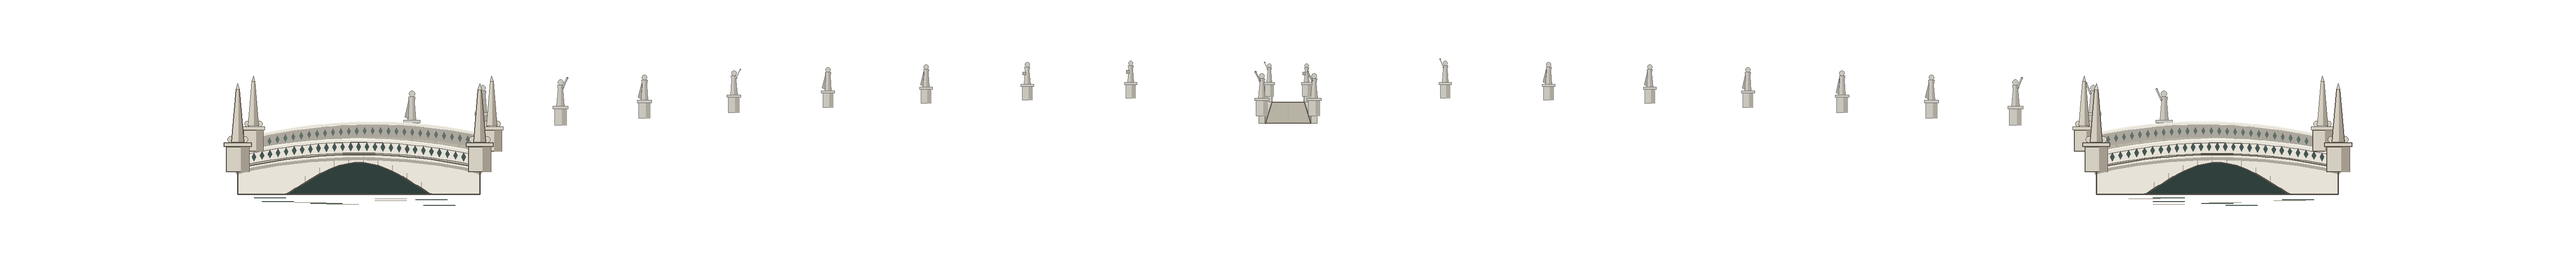
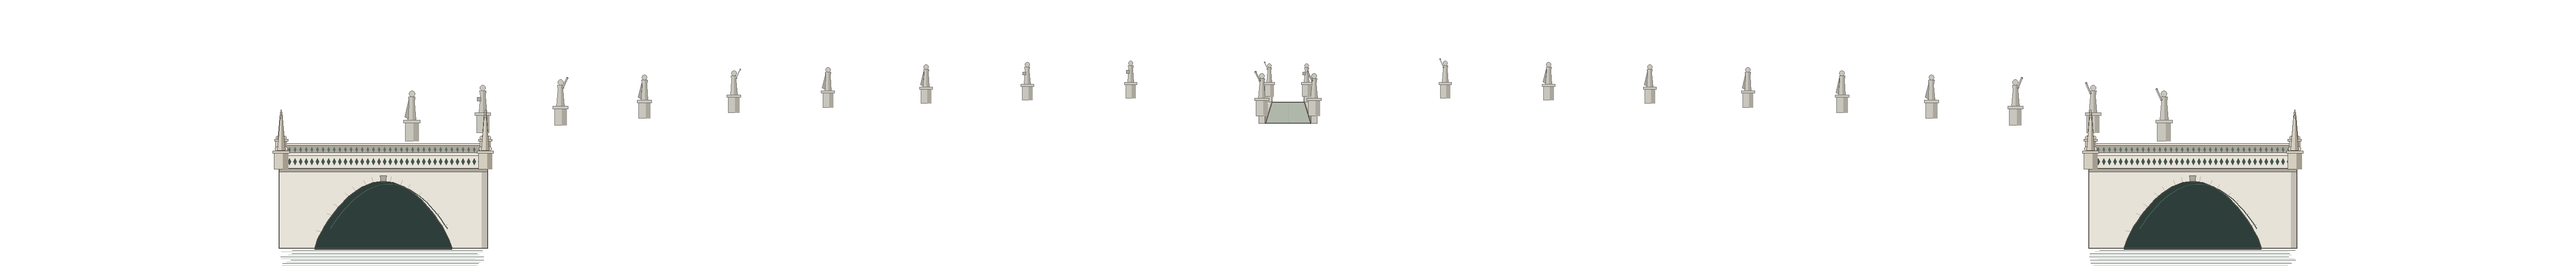
Padova: i ponti est e ovest continuano la striscia dove si gioca, dritti e in piano (#378)
Claude-Session: https://claude.ai/code/session_01Bf1d2rFJnp9n4pFf7DSqn4

Changed region(s): [[0.779, 0.36, 0.9348, 0.96], [0.0623, 0.36, 0.2181, 0.96]]

diff --git a/tools/arene/padova.py b/tools/arene/padova.py
@@ -2128,6 +2128,66 @@ def _side_bridge(t, p_in, p_out, rng, k=1.0):
         _obelisk(t, nx, ny + 2 * k, 1.0 * k, ink)
 
 
+def _flat_bridge(t, x_in, x_out, rng):
+    """Un ponte del Prato che continua il piano dove si gioca (#378, chiesto da Riccardo): il piano del ponte è la
+    stessa striscia di lastricato della piazza, vista un po' dall'alto come lei (dal bordo davanti a y 520 a quello
+    dietro a y 506), dritto e in piano. Davanti la faccia di pietra bianca con l'arco sull'acqua, i conci e la chiave,
+    le spalle che scendono nell'acqua; sui due bordi il parapetto traforato, e ai quattro capi gli obelischi (quelli
+    dietro più piccoli). Da x_in (la punta dell'isola) a x_out (la sponda di fuori)."""
+    stone, stone_sh, stone_l, ink = (230, 226, 216, 255), (176, 170, 158, 255), (246, 244, 236, 255), (84, 78, 72, 255)
+    a, b = min(x_in, x_out), max(x_in, x_out)
+    front, back, water = 520, 506, 606
+    # il parapetto dietro, sul bordo lontano: un po' più basso perché più lontano, in ombra
+    t.rect(a, back - 11, b, back, fill=stone_sh)
+    for x in range(int(a) + 4, int(b) - 2, 6):
+        t.poly([(x, back - 8.4), (x + 1.4, back - 5.6), (x, back - 2.8), (x - 1.4, back - 5.6)], fill=(96, 112, 106, 255))
+    t.rect(a, back - 12.5, b, back - 10.5, fill=stone, ink=True, width=0.5, ink_col=ink)
+    # il piano del ponte: lastre di pietra come la piazza
+    t.rect(a, back, b, front, fill=(196, 190, 176, 255))
+    for k in range(1, 3):
+        y = back + (front - back) * k / 3
+        t.line([(a, y), (b, y)], fill=(170, 164, 150, 255), width=0.5)
+    for x in range(int(a) + 12, int(b), 24):
+        t.line([(x, back), (x + 1, front)], fill=(170, 164, 150, 255), width=0.5)
+    t.glaze([(a, back), (b, back), (b, back + 4), (a, back + 4)], (40, 36, 32, 40))  # l'ombra del parapetto dietro
+    # la faccia davanti, dal bordo giù fino all'acqua, con l'arco in mezzo
+    t.rect(a, front, b, water, fill=stone)
+    span, mid = (b - a) * 0.66, (a + b) / 2
+    top_arch = front + 14
+    arch = [(mid - span / 2 + span * i / 40, water - (water - top_arch) * math.sin(math.pi * i / 40) ** 0.75) for i in range(41)]
+    t.poly([(mid - span / 2, water + 1)] + arch + [(mid + span / 2, water + 1)], fill=(46, 62, 58, 255))
+    # dentro l'arco si vede la volta che va in profondità
+    inner = [(x + 6, y + 3) for x, y in arch[3:-3]]
+    t.line(inner, fill=(70, 86, 80, 255), width=1.2)
+    for i in range(1, 16):  # i conci attorno all'arco
+        u = i / 16
+        px, py = arch[int(u * 40)]
+        nx, ny = -math.cos(math.pi * u), -math.sin(math.pi * u) * 0.9
+        t.line([(px, py), (px + nx * 6, py + ny * 6)], fill=stone_sh, width=0.7)
+    kx, ky = arch[20]
+    t.poly([(kx - 3.5, ky - 6), (kx + 3.5, ky - 6), (kx + 2.6, ky + 1), (kx - 2.6, ky + 1)], fill=stone_sh, ink=True, width=0.6, ink_col=ink)  # la chiave
+    t.line(arch, fill=ink, width=0.8)
+    t.rect(a, front, b, front + 4, fill=stone_sh)  # la cornice sotto il piano
+    t.line([(a, front + 4), (b, front + 4)], fill=ink, width=0.5)
+    t.glaze([(b - 6, front + 4), (b, front + 4), (b, water), (b - 6, water)], (40, 36, 32, 50))
+    t.rect(a, front, b, water, ink=True, width=0.8, ink_col=ink)
+    for i in range(10):  # il riflesso nell'acqua, spezzato
+        y = water + 2 + i * 1.8
+        t.line([(a + rng.uniform(0, 14), y), (b - rng.uniform(0, 14), y)], fill=(166, 186, 178, 255) if i % 2 else (60, 78, 72, 255), width=0.7)
+    # il parapetto davanti: la lastra bianca traforata sul bordo vicino
+    t.rect(a, front - 14, b, front, fill=stone)
+    for x in range(int(a) + 4, int(b) - 2, 6):
+        t.poly([(x, front - 10.5), (x + 1.7, front - 7), (x, front - 3.5), (x - 1.7, front - 7)], fill=(70, 86, 82, 255))
+    t.rect(a, front - 14, b, front, ink=True, width=0.5, ink_col=ink)
+    t.rect(a - 1, front - 16.5, b + 1, front - 13.5, fill=stone, ink=True, width=0.6, ink_col=ink)
+    t.line([(a - 1, front - 16), (b + 1, front - 16)], fill=stone_l, width=0.8)
+    # gli obelischi ai quattro capi: quelli dietro più piccoli e più in alto
+    for x in (a + 2, b - 2):
+        _obelisk(t, x, back - 1, 0.85, ink)
+    for x in (a + 2, b - 2):
+        _obelisk(t, x, front + 1, 1.05, ink)
+
+
 def bridges_and_statues(name):
     """Le statue sulla sponda di là del canale e i ponticelli (#378, chiesto da Riccardo): la fila di statue del Prato
     lungo tutto l'ovale, più piccole lontano; il ponticello dietro la fontana visto di fronte, e i due alle punte
@@ -2164,16 +2224,10 @@ def bridges_and_statues(name):
             t.rect(px - 6 * sc, py - 14 * sc, px + 6 * sc, py, fill=stone, ink=True, width=0.5, ink_col=ink)
             ring_statue(t, px, py - 14 * sc, sc, rng, hz)
     t.poly(deck, ink=True, width=0.8, ink_col=ink)
-    # i ponti est e ovest (#378, chiesto da Riccardo): vicini alla telecamera e allineati con la striscia dove si
-    # combatte, dalla punta della piazza (y 520) dritti verso fuori fino al vialetto della sponda; più grandi perché vicini
-    # (dallo schizzo di Riccardo): partono dall'angolo della piazza e scendono verso la sponda di fuori, che lì gira
-    # verso di noi, con la gobba alta
+    # i ponti est e ovest sullo stesso piano dove si gioca (#378, chiesto da Riccardo): ognuno continua la striscia
+    # della piazza dalla punta dell'isola fino alla sponda di fuori
     for side in (-1, 1):
-        # sulla stessa linea del piano di gioco (#378, chiesto da Riccardo): il bordo di qua del ponte continua il bordo
-        # dove si cammina (y 521), dall'angolo della piazza dritto fino alla sponda di fuori
-        p_in = (960 + side * 866, 521)
-        p_out = (oval_edge_x(521, side) + side * 34, 521)
-        _side_bridge(t, p_in, p_out, rng, 1.7)
+        _flat_bridge(t, 960 + side * 858, oval_edge_x(513, side) + side * 30, rng)
     t.save(OUT, name, colors=256)
 
 
